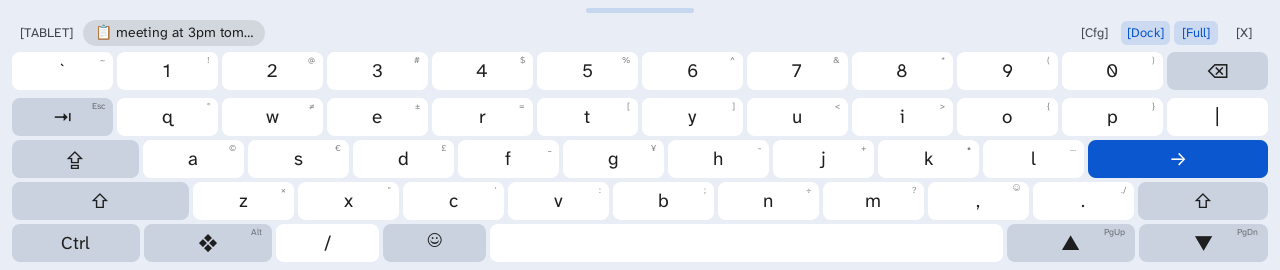
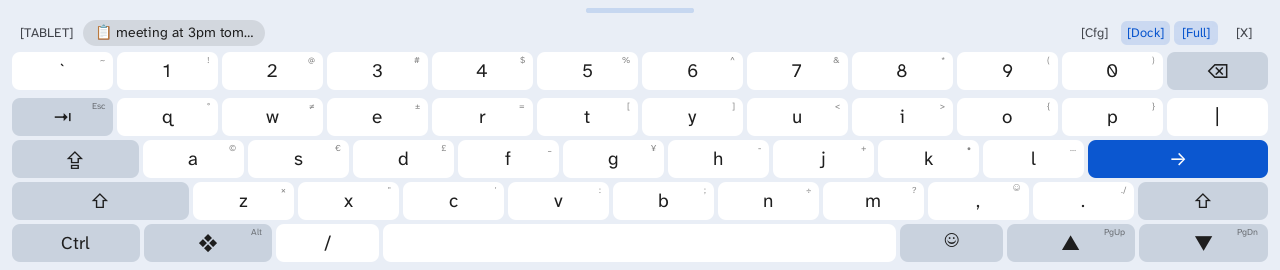
Emoji key on the right of the space bar, / stays on the left

Changed region(s): [[0.2812, 0.8296, 0.4062, 0.9778], [0.6875, 0.8296, 0.7812, 0.9778]]

diff --git a/layouts.js b/layouts.js
@@ -226,10 +226,10 @@ Layouts.phone = {
             // Tap = Super (Activities / Super+key combos); hold = sticky Alt latch
             { code: 125, label: "❖", width: 1.25, type: "super", lpAlt: true, hint: "Alt" },
             { code: 53, label: "/", shift: "?" },
-            // Opens the emoji panel (ABC there comes back)
-            { code: 0, label: "☺", width: 1.0, type: "emoji", special: true },
             // Left/Right: slide on the space bar
             { code: 57, label: " ", width: 5.0, type: "space" },
+            // Opens the emoji panel (ABC there comes back)
+            { code: 0, label: "☺", width: 1.0, type: "emoji", special: true },
             // long-press ▲/▼: Page Up/Down; with Shift scrolls terminal history
             { code: 103, label: "▲", width: 1.25, type: "arrow", hint: "PgUp", lpKeys: [{ label: "PgUp", code: 104 }, { label: "⇧PgUp", code: 104, shift: true }] },
             { code: 108, label: "▼", width: 1.25, type: "arrow", hint: "PgDn", lpKeys: [{ label: "⇧PgDn", code: 109, shift: true }, { label: "PgDn", code: 109 }], lpDefault: 1 },

diff --git a/README.md b/README.md
@@ -112,7 +112,7 @@ The sensitivity of both gestures can be set in pixels per character.
 * **Swipe typing (English, optional):** turn it on in Settings → Typing Help. Slide from the first letter across the others and
   lift your finger: the word is typed with a space, and three other guesses appear in the suggestion bar (tap one to swap it in).
   Backspace right after a swipe deletes the whole word. Taps and holds for accents work as before.
-* **Emoji panel (Tablet layout):** the ☺ key beside the space bar swaps the keys for pages of emoji with category tabs and a
+* **Emoji panel (Tablet layout):** the ☺ key to the right of the space bar swaps the keys for pages of emoji with category tabs and a
   recently-used tab. **ABC** brings the letters back.
 * **Paste button:** for three minutes after you copy some text, its first words appear as a button at the left of the
   suggestion bar; tap it to paste. Held in memory only, never shown on the lock screen, and password-manager copies are ignored.

diff --git a/CHANGES.md b/CHANGES.md
@@ -1,7 +1,7 @@
 # Changes
 
 ## 1.5.0 (2026-11-15)
-- **Emoji panel** (Tablet layout): the new ☺ key beside the space bar swaps the keys for pages of emoji. Tabs along the
+- **Emoji panel** (Tablet layout): the new ☺ key to the right of the space bar swaps the keys for pages of emoji. Tabs along the
   top pick the category, the first tab holds the emoji you used most recently, and a sideways swipe or the ‹ › buttons
   turn the page. **ABC** returns to the letters; ⌫ deletes. Recently used emoji are kept in
   `~/.config/tabula-osk/emoji-recent.json`. Custom layouts made before this version don't have the key; use *Start over
